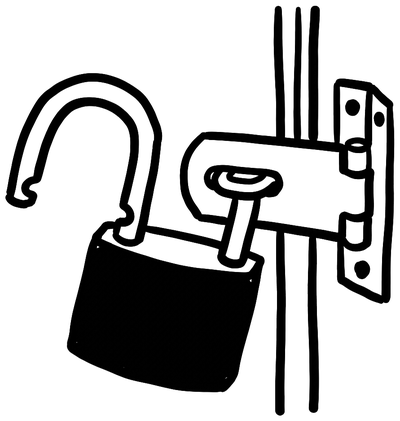
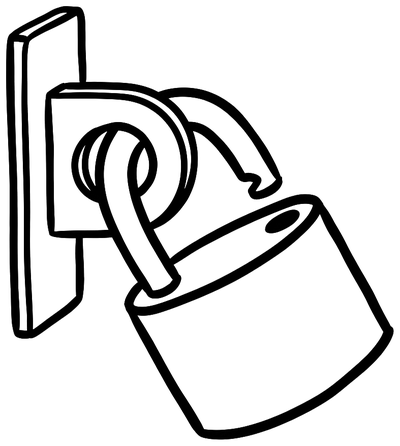
art: redraw silent-gate — the original had a second fastener contradicting the metaphor (#485)

diff --git a/src/posts/2026-08-18-checks-that-pass-for-the-wrong-reason.md b/src/posts/2026-08-18-checks-that-pass-for-the-wrong-reason.md
@@ -13,7 +13,7 @@ I spent the last stretch auditing every post on this site against the code, conf
 
 A failing check gets fixed on the afternoon it fails. A check that passes for the wrong reason can sit there for a year while you build on top of it.
 
-<div class="zine-doodle" aria-hidden="true" style="--doodle: url('/assets/doodles/silent-gate.png'); width: min(250px, 66%); aspect-ratio: 400/421; margin: 2rem auto 0.5rem;"></div>
+<div class="zine-doodle" aria-hidden="true" style="--doodle: url('/assets/doodles/silent-gate.png'); width: min(250px, 66%); aspect-ratio: 400/446; margin: 2rem auto 0.5rem;"></div>
 <p class="hand-note" style="text-align: center; display: block;">hooked through, hanging open</p>
 
 ## The one that started it
